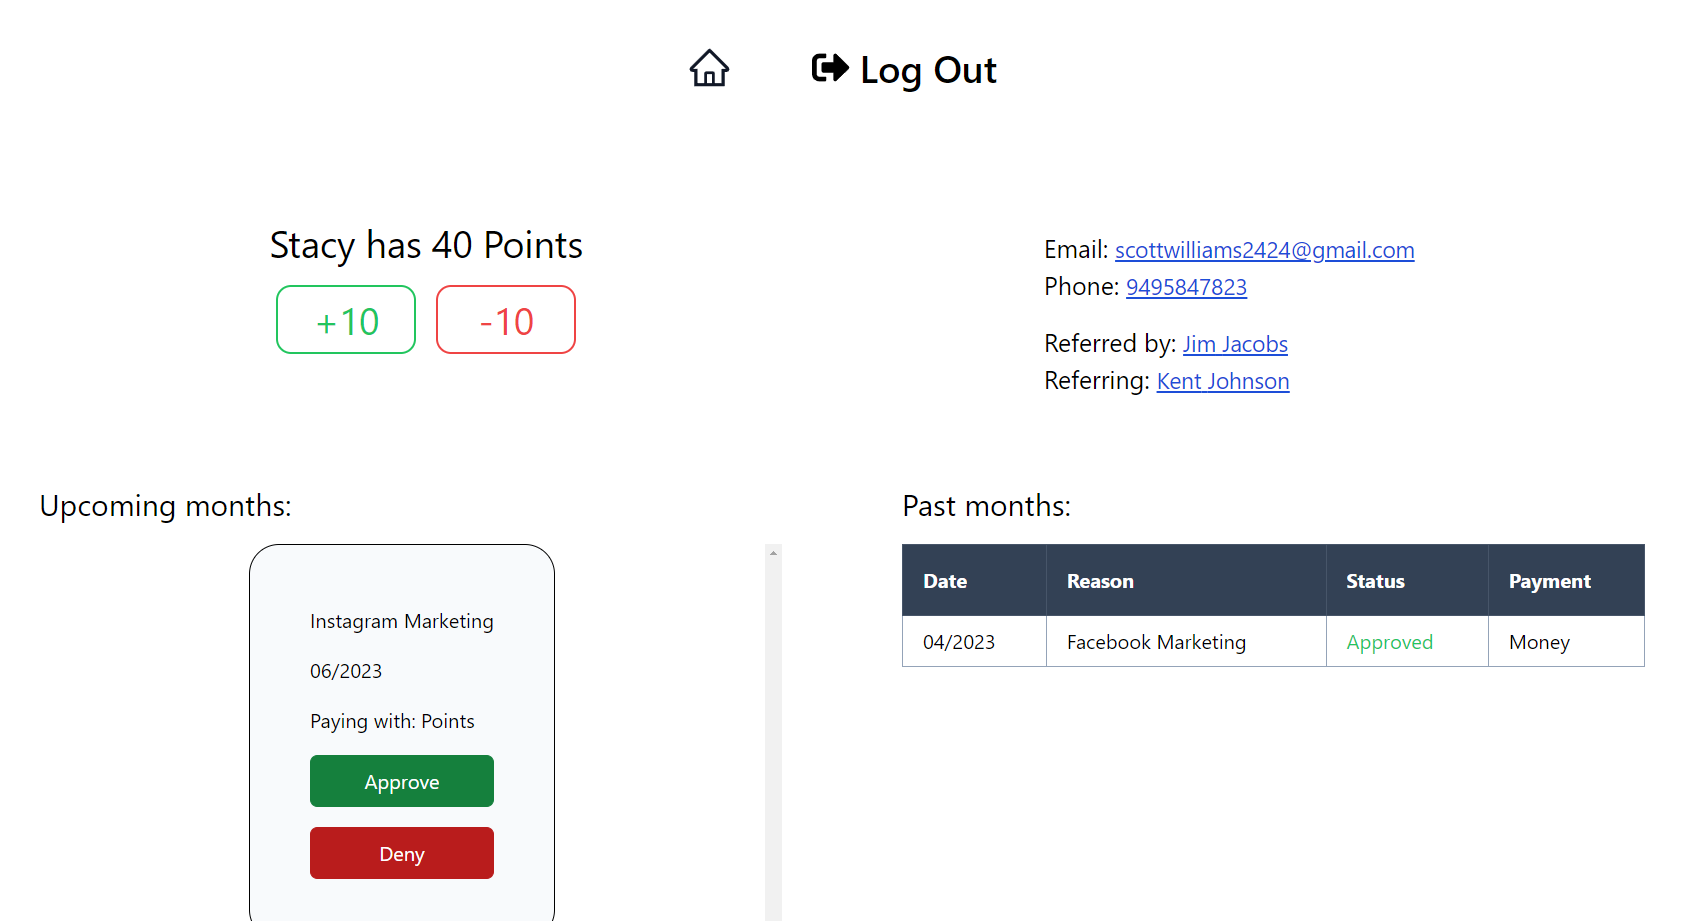
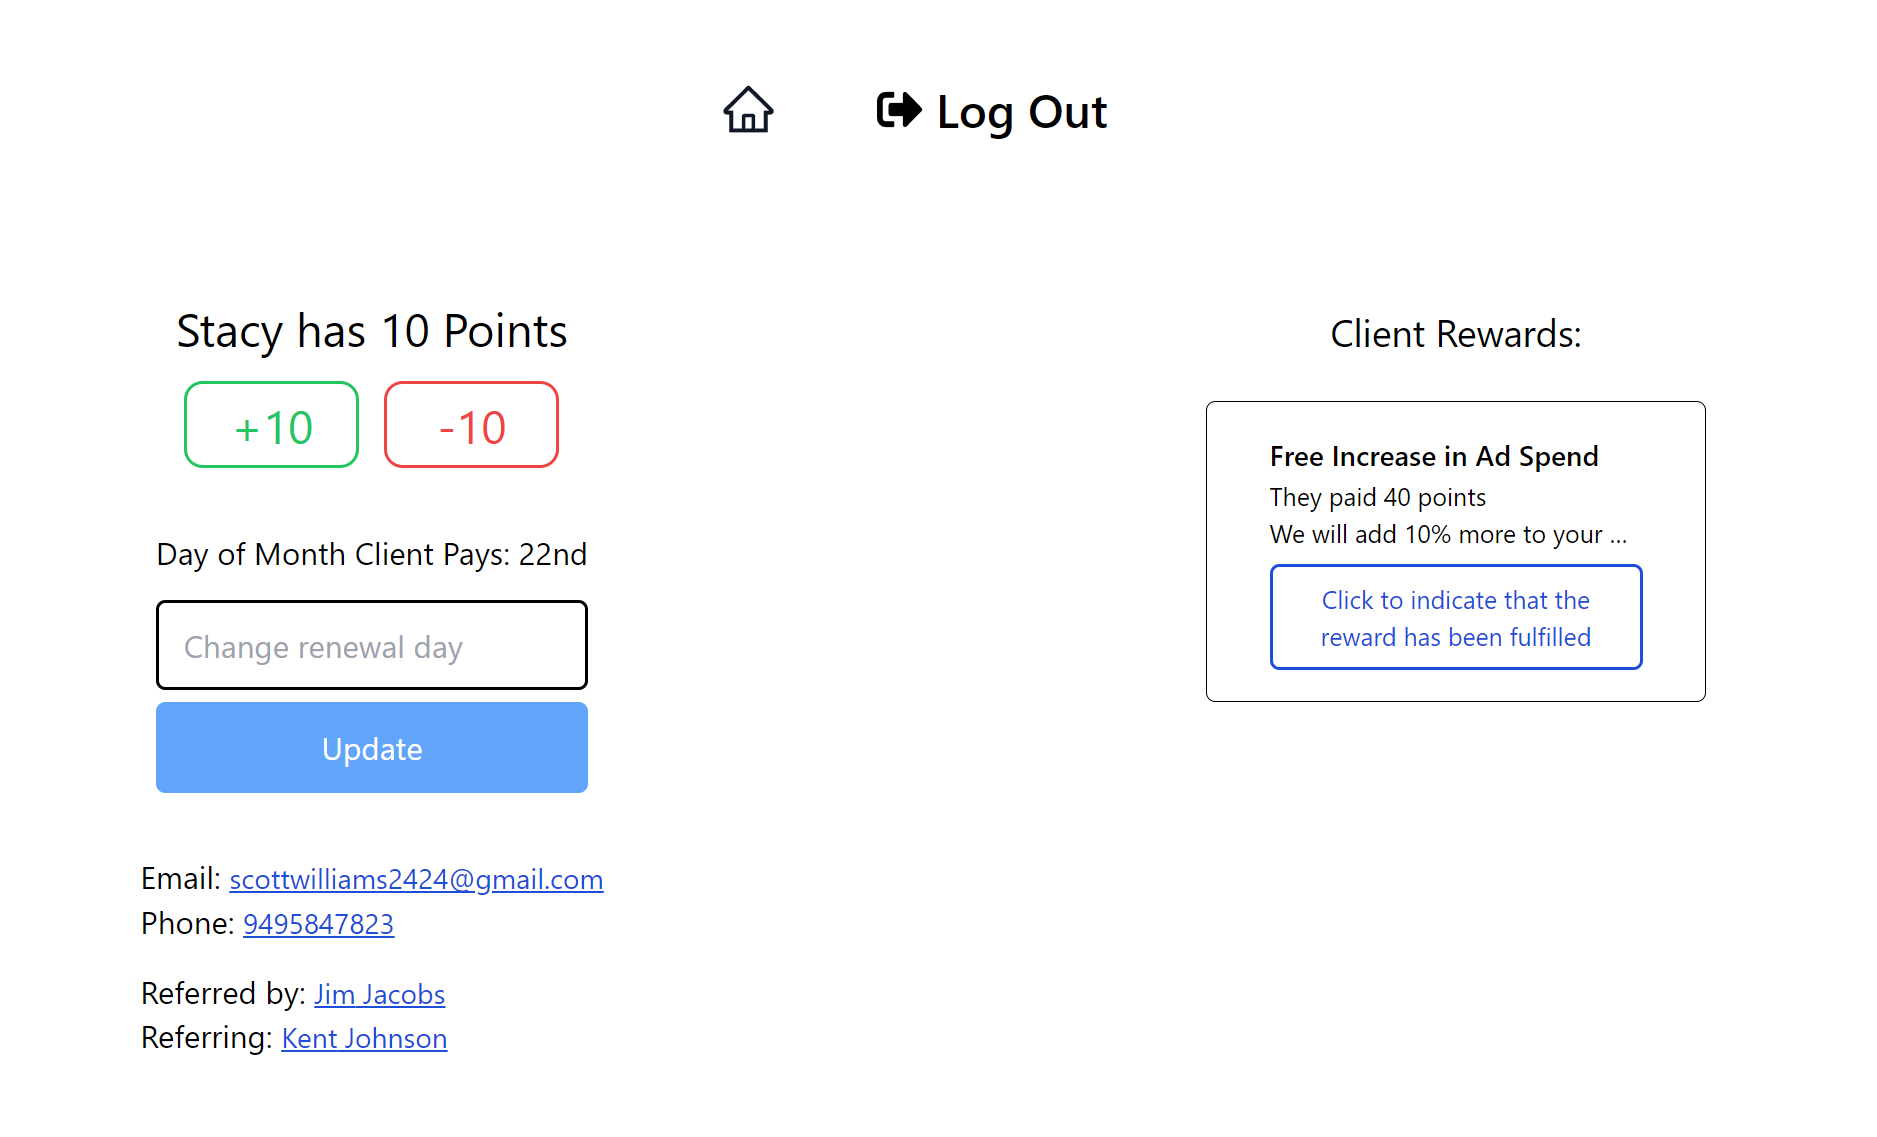
ain

diff --git a/src/components/Faqs.jsx b/src/components/Faqs.jsx
@@ -6,9 +6,9 @@ import backgroundImage from '@/images/background-faqs.jpg'
 const faqs = [
   [
     {
-      question: 'How do I integrate into my site?',
+      question: 'How do I set things up?',
       answer:
-        'We simply add a User Portal button to your website that redirect users to the software.',
+        'We take care of all aspects of setup and maintenance.',
     },
     {
       question: 'How do the monthly terms work?',
@@ -17,26 +17,26 @@ const faqs = [
     {
       question: 'How do referrals work?',
       answer:
-        'Every user has a referral code and the option to state who referred them. After a client adds a referral code and has their first payment succeeded, their referrer gets 100 points.',
+        'Every user has a referral code and the option to state who referred them. Every time a client refers another client, they get rewarded with points.',
     },
   ],
   [
     {
       question: 'How do the points work?',
       answer:
-        'They work how you want them to work. Generally if a user has enough points, they are able to claim a free or half off trim.',
+        'They work how you want them to work. Generally if a user has enough points, they are able to claim a reward.',
     },
     {
       question:
         'How do clients get points?',
       answer:
-        'A client can get points by having using your service for a month (+10 points) or by referring a friend and that friend having their first month with you (+100 points).',
+        'A client can get points by having using your service for a month (+10 points) or by referring a friend.',
     },
     {
       question:
         'Can I change the gamification?',
       answer:
-        'Yes you can change  how many points a user is awarded for referrals or approved appointments. You can also change what the points get them.',
+        'Yes you can change  how many points a user is awarded for referrals or successful months. You can also change what the points get them.',
     },
   ],
   [
@@ -46,8 +46,8 @@ const faqs = [
         'To reduce friction, we allow them to sign in with their Google account and have seamless integration of data.',
     },
     {
-      question: 'How do I know when a user has made a change?',
-      answer: 'You will receive an email with the user\'s change along with a link to manage the user.',
+      question: 'How do I know when a user has claimed a reward?',
+      answer: 'You will receive an email with the user\'s reward along with a link to manage the user.',
     },
     {
       question: 'What if I don\'t like this software?',

diff --git a/src/components/PrimaryFeatures.jsx b/src/components/PrimaryFeatures.jsx
@@ -5,32 +5,36 @@ import clsx from 'clsx'
 
 import { Container } from '@/components/Container'
 import backgroundImage from '@/images/background-features.jpg'
-import screenshotExpenses from '@/images/screenshots/expenses.png'
-import screenshotPayroll from '@/images/screenshots/payroll.png'
-import screenshotReporting from '@/images/screenshots/reporting.png'
-import screenshotVatReturns from '@/images/screenshots/vat-returns.png'
+
 import screenshotUser from '@/images/screenshots/user.png'
 import screenshotAdmin from '@/images/screenshots/adminmanage.png'
 import screenshotAdminManagingUser from '@/images/screenshots/adminmanageuser.png'
+import managerewards from '@/images/screenshots/managerewards.png'
 
 const features = [
   {
     title: 'User experience',
     description:
-      "How a client manages their account, adds referrals, manually adds months if need be, and tracks their previous months.",
+      "How a client manages their account, adds referrals, and views their rewards.",
     image: screenshotUser,
   },
   {
     title: 'Manage clients as admin',
     description:
-      "All of your clients organized into one place. Be sure remind them to use your website!",
+      "All of your clients organized into one place. Be sure remind them to use you HeyDay!",
     image: screenshotAdmin,
   },
   {
     title: 'Manage client as admin',
     description:
-      "View, approve, and/or deny your user's months while also manually updating their points if need be (points change automatically). New Features coming here soon.",
+      "View your users info and rewards while also manually updating their points if need be (points change automatically).",
     image: screenshotAdminManagingUser,
+  },
+  {
+    title: 'Manage rewards as admin',
+    description:
+      "Create, delete, and view the rewards you are offering your clients for their loyalty to you",
+    image: managerewards,
   },
  
 ]

diff --git a/src/components/Pricing.jsx b/src/components/Pricing.jsx
@@ -120,6 +120,7 @@ export function Pricing() {
             description="Useful if you just want to incentivize longer client lifespan."
             href="#contact"
             features={[
+              'Hosting',
               'Track your clients',
               'Manage your clients',
               'Point System',
@@ -133,6 +134,7 @@ export function Pricing() {
             description="Useful if you want the ability to incentive longer client lifespan AND new referrals."
             href="#contact"
             features={[
+              'Hosting',
               'Track your clients',
               'Manage your clients',
               'Point System',

diff --git a/src/pages/index.jsx b/src/pages/index.jsx
@@ -15,10 +15,10 @@ export default function Home() {
   return (
     <>
       <Head>
-        <title>HeyDay - Referrals made simple for landscapers</title>
+        <title>HeyDay - Referrals & retention made simple for agencies</title>
         <meta
           name="description"
-          content="Increase client retention and lifetime value by gamifying their experience with your landscaping service."
+          content="Increase client retention and lifetime value by gamifying their experience with your agency."
         />
       </Head>
       <Header />

diff --git a/src/components/SecondaryFeatures.jsx b/src/components/SecondaryFeatures.jsx
@@ -14,7 +14,7 @@ import screenshotComparisonLTV from '@/images/ltv/beforeafter.png'
 const features = [
   {
     name: 'Before integrating HeyDay',
-    summary: 'This is the typical lifetime value (LTV) of a client at a typical landscaping client.',
+    summary: 'This is an examlpe lifetime value (LTV) of a client at an agency .',
     description:
       'This is the typical lifetime value that a client has',
     image: screenshotBeforeLTV,
